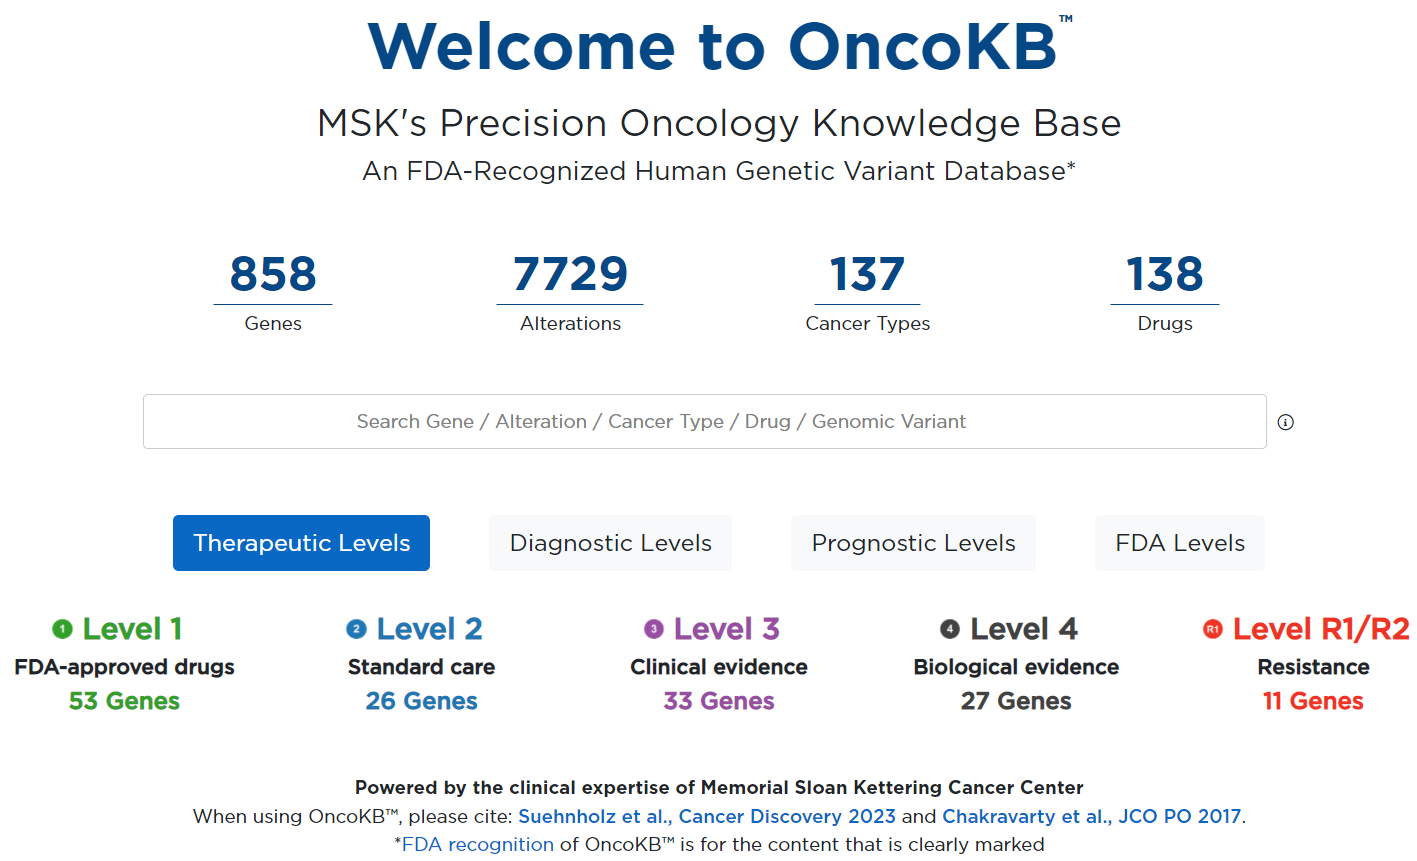
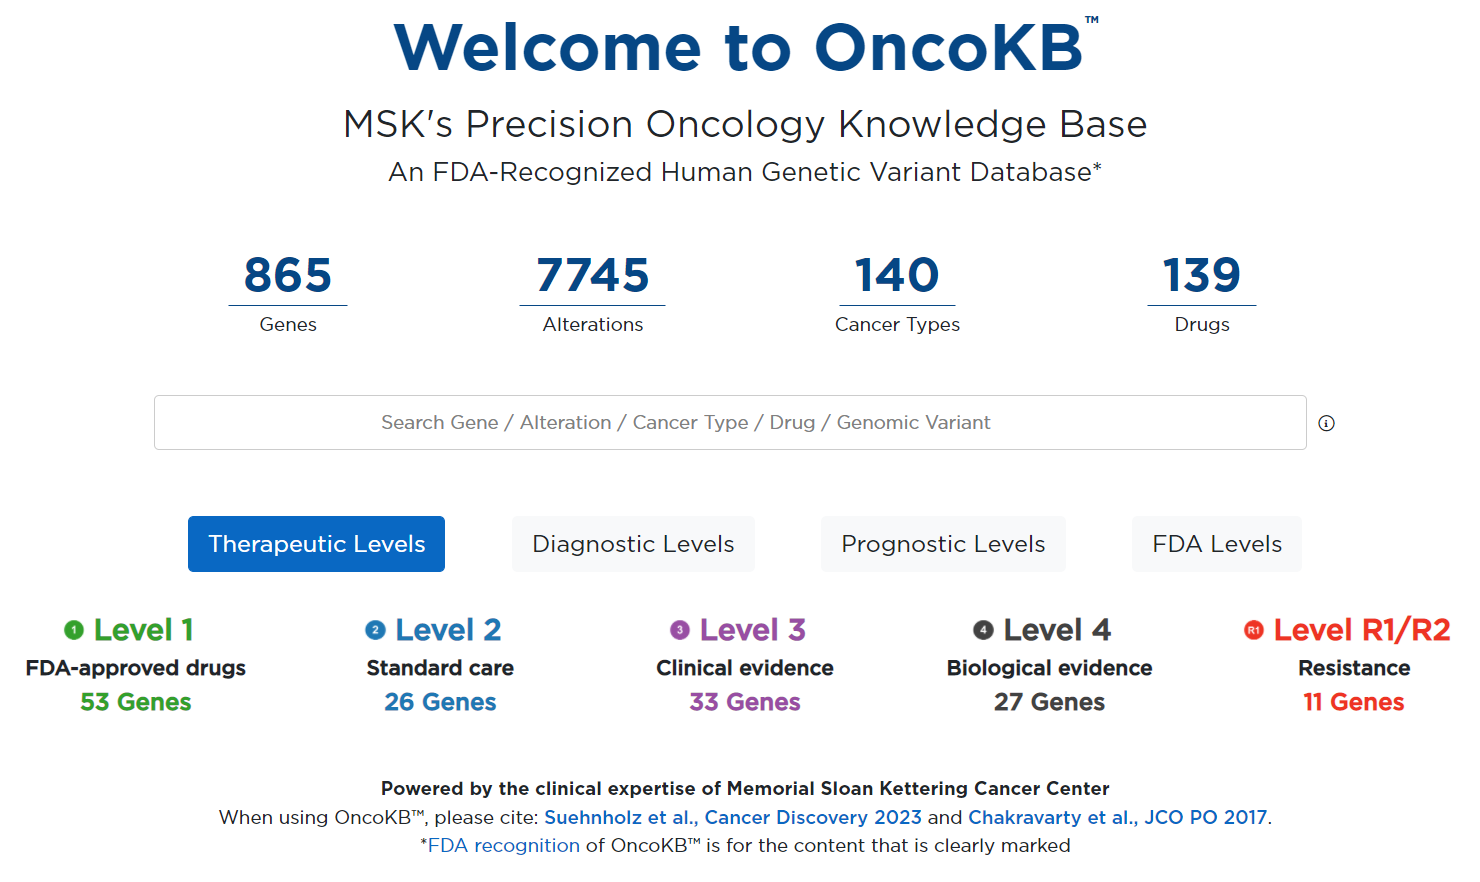
Update new v4.16

diff --git a/src/main/webapp/app/pages/newsPage/NewsPageContent.tsx b/src/main/webapp/app/pages/newsPage/NewsPageContent.tsx
@@ -238,6 +238,154 @@ const EVIDENCE_COLUMN_SEPARATOR = '; ';
 // https://stackoverflow.com/questions/41947168/is-it-possible-to-use-keyof-operator-on-literals-instead-of-interfaces
 
 export const NEWS_BY_DATE: { [date: string]: NewsData } = {
+  '04302024': {
+    priorityNews: [
+      <span>
+        Release of the FDA Cleared or Approved Companion Diagnostic Devices
+        (CDx) page, which includes the companion diagnostics that are listed in
+        the FDA-drug labels of {ONCOKB_TM} level 1 precision oncology drugs{' '}
+      </span>,
+      <span>
+        We have updated our <Link to={PAGE_ROUTE.FAQ_ACCESS}>FAQ page</Link>{' '}
+        with the most commonly asked questions of 2023. Take a look at what our
+        users are asking us
+      </span>,
+    ],
+    changedAnnotations: [
+      {
+        columnHeaderType:
+          AnnotationColumnHeaderType.PROMOTION_TUMOR_TYPE_SPECIFIC_EVIDENCE,
+        title:
+          'Updated therapeutic implications - Promotion of tumor type-specific level of evidence for an alteration',
+        content: [
+          [
+            'BRAF',
+            'Fusions',
+            'Low-Grade Glioma',
+            <div>
+              <div style={{ fontStyle: 'italic' }}>
+                {DRUGS_CURRENTLY_IN_ONCOKB}:
+              </div>
+              <div>Trametinib, Cobimetinib, Selumetinib (Level 3B)</div>
+              <br />
+              <div style={{ fontStyle: 'italic' }}>
+                {DRUGS_PROMOTED_IN_ONCOKB}:
+              </div>
+              <div>Tovorafenib (Level 1)</div>
+            </div>,
+            '3B',
+            '1',
+            <WithSeparator separator={EVIDENCE_COLUMN_SEPARATOR}>
+              <FdaApprovalLink
+                link="https://www.fda.gov/drugs/resources-information-approved-drugs/fda-grants-accelerated-approval-tovorafenib-patients-relapsed-or-refractory-braf-altered-pediatric"
+                approval="Tovorafenib"
+              />
+              <PMIDLink pmids="37978284" />
+            </WithSeparator>,
+          ],
+          [
+            'BRAF',
+            'V600',
+            'Low-Grade Glioma',
+            <div>
+              <div style={{ fontStyle: 'italic' }}>
+                {DRUGS_CURRENTLY_IN_ONCOKB}:
+              </div>
+              <div style={{ textDecoration: 'underline' }}>BRAF V600E:</div>
+              <div>Dabrafenib + Trametinib (Level 1)</div>
+              <br />
+              <div>
+                <div style={{ textDecoration: 'underline' }}>BRAF V600K:</div>
+                <span style={{ whiteSpace: 'normal' }}>
+                  Dabrafenib + Trametinib, Trametinib, Vemurafenib +
+                  Cobimetinib, Encorafenib + Binimetinib, Vemurafenib +
+                  Atezolizumab + Cobimetinib (Level 3B)
+                </span>
+              </div>
+              <br />
+              <div style={{ textDecoration: 'underline' }}>
+                All Other BRAF V600 Variants:
+              </div>
+              <span>Vemurafenib + Atezolizumab + Cobimetinib (Level 3B)</span>
+              <div style={{ fontStyle: 'italic' }}>
+                {DRUGS_ADDED_TO_ONCOKB}:
+              </div>
+              <div>Tovorafenib (Level 1)</div>
+            </div>,
+            '3B',
+            '1',
+            <WithSeparator separator={EVIDENCE_COLUMN_SEPARATOR}>
+              <FdaApprovalLink
+                link="https://www.fda.gov/drugs/resources-information-approved-drugs/fda-grants-accelerated-approval-tovorafenib-patients-relapsed-or-refractory-braf-altered-pediatric"
+                approval="Tovorafenib"
+              />
+              <PMIDLink pmids="37978284" />
+            </WithSeparator>,
+          ],
+          [
+            'ERBB2',
+            'Amplification',
+            'Salivary Gland Cancer',
+            <div>
+              <div>Trastuzumab,</div>
+              <div>Trastuzumab + Docetaxel,</div>
+              <div>Ado-Trastuzumab Emtansine,</div>
+              <div>Trastuzumab Deruxtecan,</div>
+              <div>Trastuzumab + Pertuzumab</div>
+            </div>,
+            '3B',
+            '2',
+            <WithSeparator separator={EVIDENCE_COLUMN_SEPARATOR}>
+              <span>
+                Inclusion in NCCN Head and Neck Cancer Guidelines V3.2024
+              </span>
+              <PMIDLink
+                pmids="28006087, 30452336, 31504139, 38231777, 32067683"
+                wrapText
+              />
+              <AbstractLink
+                abstract="Liu, D. et al. Abstract# 3025, JCO 2023."
+                link="https://ascopubs.org/doi/10.1200/JCO.2023.41.16_suppl.3025"
+              />
+            </WithSeparator>,
+          ],
+          [
+            'ERBB2',
+            'Amplification',
+            <span style={{ whiteSpace: 'normal' }}>
+              All Solid Tumors (excluding Breast Cancer, Esophagogastric Cancer,
+              and Colorectal Cancer where ERBB2 amp remains Level 1; Biliary
+              Tract Cancer, Salivary Gland Cancer, and Uterine Cancer where
+              ERBB2 amp remains Level 2)
+            </span>,
+            'Trastuzumab Deruxtecan',
+            '3B',
+            '3A',
+            <WithSeparator separator={EVIDENCE_COLUMN_SEPARATOR}>
+              <FdaApprovalLink
+                link="https://www.fda.gov/drugs/resources-information-approved-drugs/fda-grants-accelerated-approval-fam-trastuzumab-deruxtecan-nxki-unresectable-or-metastatic-her2"
+                approval="Trastuzumab Deruxtecan for HER2+ (IHC3+) Solid Tumors"
+              />
+              <span>
+                Clinical response demonstrated in various HER2-expressing (IHC
+                3+) solid tumors
+              </span>
+              <PMIDLink pmids="37870536, 38547891, 37286557" wrapText />
+            </WithSeparator>,
+          ],
+        ],
+      },
+    ],
+    newlyAddedGenes: [
+      'FGF7',
+      'FOLR1',
+      'GRB7',
+      'MTHFD2',
+      'MYO5A',
+      'SLIT3',
+      'UCHL1',
+    ],
+  },
   '03212024': {
     priorityNews: [
       <span>

diff --git a/src/main/webapp/index.html b/src/main/webapp/index.html
@@ -15,7 +15,7 @@
     <meta name="twitter:site" content="@oncokb">
     <meta name="twitter:title" content="OncoKB™ - MSK's Precision Oncology Knowledge Base">
     <meta name="twitter:description" content="OncoKB™ is a precision oncology knowledge base developed at Memorial Sloan Kettering Cancer Center that contains biological and clinical information about genomic alterations in cancer.">
-    <meta name="twitter:image" content="https://www.oncokb.org/content/images/oncokb_summary.png?20240321">
+    <meta name="twitter:image" content="https://www.oncokb.org/content/images/oncokb_summary.png?20240430">
     <meta name="twitter:url" content="https://www.oncokb.org/">
 
     <meta property="og:site_name" content="OncoKB™">
@@ -23,7 +23,7 @@
     <meta property="og:url" content="https://www.oncokb.org/">
     <meta property="og:title" content="OncoKB™ - MSK's Precision Oncology Knowledge Base">
     <meta property="og:description" content="OncoKB™ is a precision oncology knowledge base developed at Memorial Sloan Kettering Cancer Center that contains biological and clinical information about genomic alterations in cancer.">
-    <meta property="og:image" content="https://www.oncokb.org/content/images/oncokb_summary.png?20240321">
+    <meta property="og:image" content="https://www.oncokb.org/content/images/oncokb_summary.png?20240430">
 
     <link rel="mask-icon" href="content/images/favicon/safari-pinned-tab.svg" color="#0968c3">
     <!-- Preload the customized fonts, so the html knows how to pain the page  -->

diff --git a/src/main/webapp/app/pages/oncologyTherapiesPage/oncologyTherapiesPage.tsx b/src/main/webapp/app/pages/oncologyTherapiesPage/oncologyTherapiesPage.tsx
@@ -474,7 +474,7 @@ const OncologyTherapiesPage: React.FunctionComponent<{}> = props => {
                 'https://www.fda.gov/drugs/resources-information-approved-drugs/oncology-cancer-hematologic-malignancies-approval-notifications'
               }
             >
-              Content current as of 1/19/2024
+              Content current as of 4/23/2024
             </Linkout>
           </div>
           <div>

diff --git a/src/main/webapp/app/pages/newsPage/NewsPage.tsx b/src/main/webapp/app/pages/newsPage/NewsPage.tsx
@@ -91,6 +91,7 @@ export default class NewsPage extends React.Component<{
             <CitationText />
           </div>
           <div className="mt-2">
+            <NewsList date={'04302024'} />
             <NewsList date={'03212024'} />
             <NewsList date={'02082024'} />
             <NewsList date={'01172024'} />

diff --git a/src/main/webapp/app/config/constants.tsx b/src/main/webapp/app/config/constants.tsx
@@ -798,6 +798,7 @@ export type DataRelease = {
 };
 
 export const DATA_RELEASES: DataRelease[] = [
+  { date: '04302024', version: 'v4.16' },
   { date: '03212024', version: 'v4.15' },
   { date: '02082024', version: 'v4.14' },
   { date: '12212023', version: 'v4.13' },
